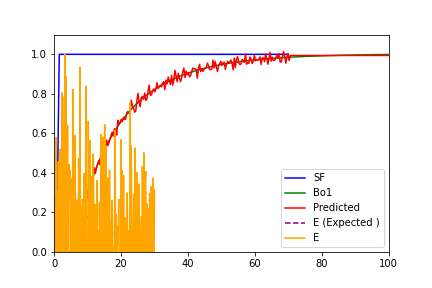
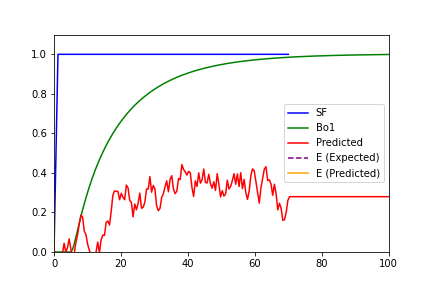
Meeting

Changed region(s): [[0.1204, 0.1562, 0.9028, 0.875]]

diff --git a/Experiments/Preliminary/Convolution_script/Convolution_015_Adler_havarka_Model/Conv_adlerhovarko_015.py b/Experiments/Preliminary/Convolution_script/Convolution_015_Adler_havarka_Model/Conv_adlerhovarko_015.py
@@ -12,14 +12,19 @@ import sympy as sp
 import wandb
 from nrtd import RTDModule
 
-tau_5_dir = '/Users/tuanaoyuncu/Documents/GitHub/nRTD/Experiments/Preliminary/Litrature/Adler_havarka_Model/tau_a_val_3_tau_p_val_2_tau_m_val_0.4000000000000001_beta_val_0.1'
+if wandb.run is not None:
+    wandb.finish()
+module_path = os.path.expanduser("~/Documents/GitHub/nRTD/lib")
+sys.path.append(module_path)
 
-t_conv_tau = torch.tensor(np.load(os.path.join(tau_5_dir, 'time.npy')), dtype=torch.float32).unsqueeze(0).unsqueeze(0)
-c_out_tau = torch.tensor(np.load(os.path.join(tau_5_dir, 'concentration.npy')), dtype=torch.float32).unsqueeze(0).unsqueeze(0)
+adler_dir = '/Users/tuanaoyuncu/Documents/GitHub/nRTD/Experiments/Preliminary/Litrature/Adler_havarka_Model/tau_a_val_1_tau_p_val_2_tau_m_val_0.4000000000000001_beta_val_0.1'
+
+t_conv_tau = torch.tensor(np.load(os.path.join(adler_dir, 'time.npy')), dtype=torch.float32).unsqueeze(0).unsqueeze(0)
+c_out_tau = torch.tensor(np.load(os.path.join(adler_dir, 'concentration.npy')), dtype=torch.float32).unsqueeze(0).unsqueeze(0)
 
 
-n_disc = 277
-t_input = torch.linspace(0, 20, n_disc)
+n_disc = 88
+t_input = torch.linspace(0, 25, n_disc)
 c_in = torch.zeros((1, 1, n_disc))
 c_in[::2, :, t_input > 1] = 1
 c_in[1::2, :, t_input < 1] = 1
@@ -46,14 +51,14 @@ print(f"c_out size: {c_out.size()}")
 print(f"t_conv size: {t_conv.size()}")
 
 model = RTDModule(
-    kernel_size=222,
+    kernel_size=111,
     learning_rate=10e-3,
     use_scheduler=True,
     scheduler_kwargs={"factor": 0.5, "patience": 80},
 )
 c_conv = model(c_in)
 E = model.net.E[0]
-t_E = torch.linspace(0, 25, model.kernel_size)
+t_E = torch.linspace(0, 20, model.kernel_size)
 E = E / E.max()
 j = 0  
 
@@ -71,7 +76,7 @@ for i in range(c_out.size(1)):
     plt.plot(
         t_conv[j, i, :].numpy(),
         c_out[j, i, :].numpy(),
-        label= "Tau 5.0",
+        label= "tau_a_val_3_tau_p_val_2",
         color="green")
 plt.plot(
     t_conv[j, 0, :].numpy(),
@@ -90,16 +95,23 @@ print(model(c_in).size())
 
 ds = TensorDataset(c_in, c_out)
 dl = DataLoader(ds, batch_size=20, shuffle=True)
+wandb_logger = pl_loggers.WandbLogger(
+    project="nRTD",
+    log_model=True
+)
+
+ds = TensorDataset(c_in, c_out)
+dl = DataLoader(ds, batch_size=20, shuffle=True)
 
 
 trainer = pl.Trainer(
-    accelerator="auto",
+    accelerator="gpu" if torch.cuda.is_available() else "cpu",
     max_epochs=10000,
-    deterministic=True
+    logger=wandb_logger,
+    deterministic=True,
 )
 trainer.fit(model, dl)
 trainer.test(model, dl)
-
 
 c_conv = model(c_in)
 E = model.net.E[0]
@@ -117,7 +129,7 @@ def compute_inverse_laplace(coefficients, t_values):
                 # Laplace transform equation
                 F_s = (sp.exp(-tau_p_val * s)) / (1 + beta_val + tau_a_val * s - (beta_val / (1 + tau_m_val * s)))
                 f_t = sp.inverse_laplace_transform(F_s, s, t)
-                f_t_numeric = sp.lambdify(t, f_t, modules="numpy")  # Convert to numerical function
+                f_t_numeric = sp.lambdify(t, f_t, modules="numpy")
                 E_t = f_t_numeric(t_values)
                 results.append({
                     'tau_a_val': tau_a_val,
@@ -129,7 +141,7 @@ def compute_inverse_laplace(coefficients, t_values):
     return results
 coefficients = {
     'tau_a_val': np.array([1]),
-    'tau_p_val': np.array([3]),
+    'tau_p_val': np.array([2]),
     'beta_val': np.array([0.1]),
     'alpha_val': 0.2
 }
@@ -139,27 +151,28 @@ E_expected = inverse_laplace_results[0]['E_t']
 
 
 plt.figure()
-plt.plot(t_input, c_in[0, 0, :].numpy(), label="SF", color="blue")
+plt.plot(t_input, c_in[0, 0, :].numpy(), label="c_in", color="blue")
 
 for i in range(c_out.size(1)):
     plt.plot(
         t_conv[0, i, :].numpy(),
         c_out[0, i, :].numpy(),
-        label="Bo10",
+        label="tau_a_val_3_tau_p_val_2",
         color="green",
     )
 
 plt.plot(
     t_conv[0, 0, :].numpy(),
     c_conv[0, 0, :].detach().numpy(),
-    label="Predicted",
+    label="c_predicted",
     color="red",
 )
 plt.plot(t_E, E, label="E", color="orange")
-plt.plot(t_plot, E_expected, label="E_predicted", color="purple")
+plt.plot(t_plot, E_expected, label="E_predicted", color="purple", linestyle="--")
 plt.xlim((0, 50))
 plt.ylim((0, 1.1))
 plt.legend()
-
-plt.savefig("Figure_Adler_havarka_Model_tau_a_val_1_tau_p_val_3_")
+ax = plt.gca()  
+ax.set_xticks(np.arange(0, 10, 1))  
+#plt.savefig("Figure_Adler_havarka_Model_tau_a_val_3_tau_p_val_2_200disc")
 plt.show()

diff --git a/Experiments/Preliminary/Convolution_script/Convolution_016_Dispersion_Model/Conv_dispersion_016.py b/Experiments/Preliminary/Convolution_script/Convolution_016_Dispersion_Model/Conv_dispersion_016.py
@@ -17,16 +17,16 @@ if wandb.run is not None:
 module_path = os.path.expanduser("~/Documents/GitHub/nRTD/lib")
 sys.path.append(module_path)
 
-tau_5_dir = '/Users/tuanaoyuncu/Documents/GitHub/nRTD/Experiments/Preliminary/Litrature/Dispersion_Model/Bo3_500'
+tau_5_dir = '/Users/tuanaoyuncu/Documents/GitHub/nRTD/Experiments/Preliminary/Litrature/Dispersion_Model/Bo10_200'
 t_conv_tau = torch.tensor(np.load(os.path.join(tau_5_dir, 'time.npy')), dtype=torch.float32).unsqueeze(0).unsqueeze(0)
 c_out_tau = torch.tensor(np.load(os.path.join(tau_5_dir, 'concentration.npy')), dtype=torch.float32).unsqueeze(0).unsqueeze(0)
 
 
-n_disc = 349
-t_input = torch.linspace(0, 70, n_disc)
+n_disc = 100
+t_input = torch.linspace(0, 50, n_disc)
 c_in = torch.zeros((1, 1, n_disc))
-c_in[::2, :, t_input > 1] = 1
-c_in[1::2, :, t_input < 1] = 1
+c_in[::2, :, t_input > 5] = 1
+c_in[1::2, :, t_input < 5] = 1
 c_out_list = [c_out_tau]
 t_conv_list = [t_conv_tau]
 c_out = torch.cat(c_out_list, dim=0)
@@ -38,7 +38,7 @@ print(f"c_out size: {c_out.size()}")
 print(f"t_conv size: {t_conv.size()}")
 
 model = RTDModule(
-    kernel_size=150,
+    kernel_size=99,
     learning_rate=10e-3,
     use_scheduler=True,
     scheduler_kwargs={"factor": 0.5, "patience": 80},
@@ -46,7 +46,7 @@ model = RTDModule(
 
 c_conv = model(c_in)
 E = model.net.E[0]
-t_E = torch.linspace(0, 0, model.kernel_size)
+t_E = torch.linspace(5, 50, model.kernel_size)
 E = E / E.max()
 j = 0
 
@@ -91,7 +91,7 @@ wandb_logger = pl_loggers.WandbLogger(
 
 trainer = pl.Trainer(
     accelerator="gpu" if torch.cuda.is_available() else "cpu",
-    max_epochs=14000,
+    max_epochs=10000,
     logger=wandb_logger,
     deterministic=True,
 )
@@ -99,13 +99,16 @@ trainer.fit(model, dl)
 trainer.test(model, dl)
 c_conv = model(c_in)
 E = model.net.E[0]
-t_E = torch.linspace(0, 30, model.kernel_size)
+t_E = torch.linspace(5, 50, model.kernel_size)
 E = E / E.max()
 t_E_np = t_E.numpy()
 
 def expected_formula(t):
-    return np.where(t >= 2.5, 1/2*(np.sqrt(3/(np.pi*(t/5))))*np.exp(-(3*((1-(t/5))**2))/(4*(t/5))), 0)
+    return np.where(t >= 2.5, 1/2*(np.sqrt(10/(np.pi*(t/5))))*np.exp(-(10*((1-(t/5))**2))/(4*(t/5))), 0)
 E_expected_np = expected_formula(t_E_np)
+dt = t_E_np[1] - t_E_np[0]  
+E_expected_np /= np.sum(E_expected_np * dt)
+
 
 plt.figure()
 plt.plot(t_input, c_in[0, 0, :].numpy(), label="SF", color="blue")
@@ -114,7 +117,7 @@ for i in range(c_out.size(1)):
     plt.plot(
         t_conv[0, i, :].numpy(),
         c_out[0, i, :].numpy(),
-        label="Bo1",
+        label="Bo3",
         color="green",
     )
 
@@ -129,5 +132,5 @@ plt.plot(t_E, E, label="E", color="orange")
 plt.xlim((0, 100))
 plt.ylim((0, 1.1))
 plt.legend()
-plt.savefig("Figure_conv_dispersion_Bo3_500disc_expected_epoch 15000")
+plt.savefig("Figure_conv_dispersion_Bo10_200disc_expected_epoch 10000")
 plt.show()

diff --git a/Experiments/Preliminary/Convolution_script/Convolution_011_Laminar_Model/Conv_laminar.py b/Experiments/Preliminary/Convolution_script/Convolution_011_Laminar_Model/Conv_laminar.py
@@ -16,12 +16,12 @@ if wandb.run is not None:
 module_path = os.path.expanduser("~/Documents/GitHub/nRTD/lib")
 sys.path.append(module_path)
 
-tau_5_dir = '/Users/tuanaoyuncu/Documents/GitHub/nRTD/Experiments/Preliminary/Litrature/Laminar_Flow_Model/tau_5.0'
+tau_5_dir = '/Users/tuanaoyuncu/Documents/GitHub/nRTD/Experiments/Preliminary/Litrature/Laminar_Flow_Model/tau_200_5.0'
 t_conv_tau = torch.tensor(np.load(os.path.join(tau_5_dir, 'time.npy')), dtype=torch.float32).unsqueeze(0).unsqueeze(0)
 c_out_tau = torch.tensor(np.load(os.path.join(tau_5_dir, 'concentration.npy')), dtype=torch.float32).unsqueeze(0).unsqueeze(0)
 
 
-n_disc = 250
+n_disc = 100
 t_input = torch.linspace(0, 30, n_disc)
 c_in = torch.zeros((1, 1, n_disc))
 c_in[::2, :, t_input > 5] = 1
@@ -49,7 +49,7 @@ print(f"c_out size: {c_out.size()}")
 print(f"t_conv size: {t_conv.size()}")
 
 model = RTDModule(
-    kernel_size=249,
+    kernel_size=99,
     learning_rate=10e-4,
     use_scheduler=True,
     scheduler_kwargs={"factor": 0.5, "patience": 80},
@@ -102,7 +102,7 @@ dl = DataLoader(ds, batch_size=20, shuffle=True)
 
 trainer = pl.Trainer(
     accelerator="gpu" if torch.cuda.is_available() else "cpu",
-    max_epochs=100,
+    max_epochs=10000,
     logger=wandb_logger,
     deterministic=True,
 )
@@ -118,7 +118,7 @@ t_E_np = t_E.numpy()
 
 
 def expected_formula(t):
-    return np.where(t >= 2.5, (5**2 / (2 * t**3)), 0)
+    return np.where(t >= 2.5,(5**2) / (2 * (t**3)), 0)
 E_expected_np = expected_formula(t_E_np)
 
 
@@ -146,5 +146,5 @@ plt.xlim((0, 20))
 plt.ylim((0, 1.1))
 plt.legend()
 
-#plt.savefig("Figure_conv_laminar_002_dis500_shifted")
+plt.savefig("Figure_conv_laminar_002_dis200_expected")
 plt.show()

diff --git a/Experiments/Preliminary/Convolution_script/Convolution_016_Dispersion_Model/conv_dispersion_016_2.py b/Experiments/Preliminary/Convolution_script/Convolution_016_Dispersion_Model/conv_dispersion_016_2.py
@@ -15,11 +15,11 @@ if wandb.run is not None:
 module_path = os.path.expanduser("~/Documents/GitHub/nRTD/lib")
 sys.path.append(module_path)
 
-tau_5_dir = '/Users/tuanaoyuncu/Documents/GitHub/nRTD/Experiments/Preliminary/Litrature/Dispersion_Model/Bo1_300'
+tau_5_dir = '/Users/tuanaoyuncu/Documents/GitHub/nRTD/Experiments/Preliminary/Litrature/Dispersion_Model/Bo1_200'
 t_conv_tau = torch.tensor(np.load(os.path.join(tau_5_dir, 'time.npy')), dtype=torch.float32).unsqueeze(0).unsqueeze(0)
 c_out_tau = torch.tensor(np.load(os.path.join(tau_5_dir, 'concentration.npy')), dtype=torch.float32).unsqueeze(0).unsqueeze(0)
 
-n_disc = 90
+n_disc = 60
 t_input = torch.linspace(0, 70, n_disc)
 c_in = torch.zeros((1, 1, n_disc))
 c_in[::2, :, t_input > 1] = 1
@@ -30,7 +30,7 @@ c_out = torch.cat(c_out_list, dim=0)
 t_conv = torch.cat(t_conv_list, dim=0)
 
 model = RTDModule(
-    kernel_size=209,
+    kernel_size=139,
     learning_rate=10e-3,
     use_scheduler=True,
     scheduler_kwargs={"factor": 0.5, "patience": 80},
@@ -111,5 +111,5 @@ plt.plot(t_E.numpy(), E_expected_np, label="E (Expected)", color="purple", lines
 plt.xlim((0, 100))
 plt.ylim((0, 1.1))
 plt.legend()
-plt.savefig("Figure_conv_dispersion_Bo1_300disc_expected")
+plt.savefig("Figure_conv_dispersion_Bo1_200disc_expected")
 plt.show()

diff --git a/Experiments/Preliminary/Litrature/Laminar_Flow_Model/Laminar_flow_003.py b/Experiments/Preliminary/Litrature/Laminar_Flow_Model/Laminar_flow_003.py
@@ -8,7 +8,7 @@ def laminarflow(t: npt.NDArray[np.float64], tau: float) -> npt.NDArray[np.float6
     E[t >= tau / 2] = (tau**2) / (2 * (t[t >= tau / 2]**3))
     return E
 
-t = np.linspace(0, 60, 100, endpoint=True)
+t = np.linspace(0, 60, 200, endpoint=True)
 c_0 = np.zeros_like(t)
 c_0[t > 5] = 1
 
@@ -25,7 +25,7 @@ t_conv_full = np.linspace(t[0] + t[0], t[-1] + t[-1], len(c_out_full))
 valid_indices = t_conv_full <= 60
 t_conv = t_conv_full[valid_indices]
 c_out = c_out_full[valid_indices]
-tau_dir = os.path.join(base_dir, f'tau_100_{tau}')
+tau_dir = os.path.join(base_dir, f'tau_200_{tau}')
 os.makedirs(tau_dir, exist_ok=True)
 
 np.save(os.path.join(tau_dir, 'time.npy'), t_conv)
@@ -45,7 +45,7 @@ ax2.set_xlim(0, 90)
 ax2.set_xlabel('t')
 ax2.set_ylabel('c')
 ax2.legend()
-plt.savefig('laminar_flow_004_100disc.png', dpi=300)
+#plt.savefig('laminar_flow_004_100disc.png', dpi=300)
 plt.show()
 t_conv = np.load(os.path.join(tau_dir, 'time.npy'))
 c_out = np.load(os.path.join(tau_dir, 'concentration.npy'))

diff --git a/Experiments/Preliminary/Litrature/Dispersion_Model/Dispersion_Model_002.py b/Experiments/Preliminary/Litrature/Dispersion_Model/Dispersion_Model_002.py
@@ -14,7 +14,7 @@ def dispersion(t: npt.NDArray[np.float64], Bo: float, tau: float) -> npt.NDArray
     E = E / tau
     return E
 
-t = np.linspace(0, 100, 300, endpoint=True) #last position
+t = np.linspace(0, 100, 200, endpoint=True) #last position
 c_0 = np.zeros_like(t)
 c_0[t > 5] = 1
 fig, (ax1, ax2) = plt.subplots(2, 1, figsize=(10, 12))
@@ -31,7 +31,7 @@ for Bo in Bo_values:
     valid_indices = t_conv_full <= 100
     t_conv = t_conv_full[valid_indices]
     c_out = c_out_full[valid_indices]
-    Bo_dir = os.path.join(base_dir, f'Bo{Bo}_300')
+    Bo_dir = os.path.join(base_dir, f'Bo{Bo}_200')
     os.makedirs(Bo_dir, exist_ok=True)
     
     np.save(os.path.join(Bo_dir, 'time.npy'), t_conv)
@@ -55,7 +55,7 @@ ax2.set_ylabel('C')
 ax2.legend()
 
 plt.tight_layout()
-plt.savefig('dispersion_model_001_300.png', dpi=300)
+#plt.savefig('dispersion_model_001_300.png', dpi=300)
 plt.show()
 
 t_conv = np.load(os.path.join(Bo_dir, 'time.npy'))

diff --git a/Experiments/Preliminary/Litrature/Adler_havarka_Model/Adler_havarka_Model_002.py b/Experiments/Preliminary/Litrature/Adler_havarka_Model/Adler_havarka_Model_002.py
@@ -37,7 +37,7 @@ coefficients = {
     'alpha_val': 0.2           
 }
 
-t_values = np.linspace(0, 45, 500, endpoint=True)
+t_values = np.linspace(0, 45, 200, endpoint=True)
 results = compute_inverse_laplace(coefficients, t_values)
 c_0 = np.zeros_like(t_values)
 c_0[t_values > 5] = 1

diff --git a/Experiments/Preliminary/Litrature/Cholete_Model/Cholete_Model_004.py b/Experiments/Preliminary/Litrature/Cholete_Model/Cholete_Model_004.py
@@ -61,7 +61,7 @@ ax2.set_ylim(0, 1.1)
 ax2.set_xlabel('t')
 ax2.set_ylabel('C')
 ax2.legend()
-
+plt.savefig("Figure_conv_Cholete_model")
 plt.tight_layout()
 plt.show()
 
